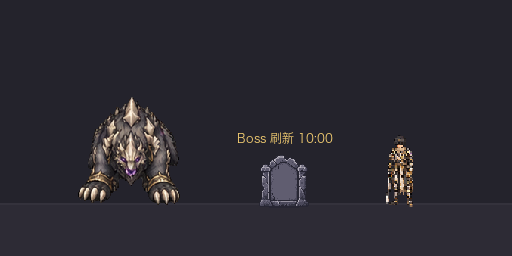
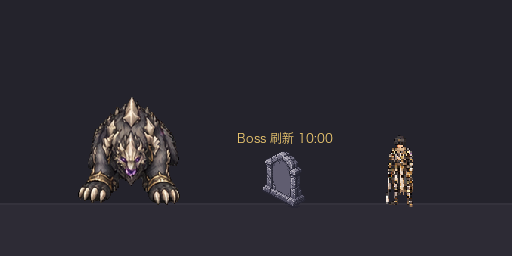
feat(assets): 接入斜向像素Boss墓碑
- 将已确认的64×64墓碑改为45度视角并保留七色透明像素风

- 替换死亡墓碑白盒绘制，实时倒计时移至碑顶上方

- 更新同屏与状态预览，Godot导入及BossReviewTest、SmokeTest通过；渲染测试通过

Changed region(s): [[0.5, 0.5938, 0.5938, 0.8125]]

diff --git a/art_source/environment/boss_tombstone/README.md b/art_source/environment/boss_tombstone/README.md
@@ -1,20 +1,18 @@
-# Boss 死亡墓碑样图说明
+# Boss 死亡墓碑素材说明
 
-本轮仅供确认造型，不接入游戏。主图为 `tombstone_64.png`；同屏、六倍和倒计时状态预览分别在 `docs/素材设计/样板/Boss墓碑样图/` 的 `preview_at_scale.png`、`preview_x6.png`、`preview_states.png`。
+`tombstone_64.png` 是源稿；相同像素的运行图位于 `assets/sprites/environment/boss_tombstone.png`，由 `scripts/entities/boss_tombstone.gd` 绘制。`docs/素材设计/样板/Boss墓碑样图/` 保存同屏、六倍和倒计时状态预览。
 
-## 造型与像素规格
+## 造型与规格
 
-- 直立的冷灰紫石碑：折角拱顶、左右短护柱、矮基座。左右破损略不对称，中心保留整块平整、无字的碑面，未来可另加名字或编号。
-- 画布 **64×64 RGBA**，实像素包围盒约 **50×53**（`x=7…56, y=10…62`）；脚底锚点建议 **(32,62)**，底部两行用不透明深色像素做接地阴影。碑体不作等距菱形压扁。
-- 颜色严格收敛为七色：`#272633`、`#343442`、`#4a485a`、`#605d70`、`#777486`、`#9692a0`、`#b6b1bb`；另有全透明像素。所有 alpha 仅为 0 或 255，没有羽化边。源图没有橙色、金色或文字。
-- 用内置 imagegen 生成造型参考，再按比例等比缩小、最近邻取样、硬阈值透明和固定调色板量化成 64×64；没有横向或纵向单独拉伸。六倍图也只用最近邻放大，不增添绘画细节。
+- 冷灰紫石碑保持直立，但绕竖轴转向：碑面、右侧厚度和斜向底座构成游戏 45 度视角。碑面留白，无固定刻字。
+- 画布为 **64×64 RGBA**，实像素范围约 `x=10…53, y=6…62`，脚底锚点 **(32,62)**，底部深色像素作为接地阴影。运行时将纹理绘制在节点局部坐标 `(-32,-62)`，使碑脚落在刷新点位置。
+- 七色像素调色板为 `#272633`、`#343442`、`#4a485a`、`#605d70`、`#777486`、`#9692a0`、`#b6b1bb`，另有透明像素。Alpha 只有 0 或 255，无矢量描边、羽化、橙色或金色。
+- 用 imagegen 根据已确认的正面样图生成斜向造型参考；再等比缩至 56×56，以最近邻取样、硬阈值透明和固定调色板量化，并放在 64×64 画布内。六倍预览仅做最近邻放大。
 
-## 比例、文字和状态
+## 游戏接入与预览
 
-`preview_at_scale.png` 以世界像素 **1:1** 合成当前游戏的 Boss、墓碑与玩家：Boss 用 `boss_corrupted_beast/idle_atlas.png` 第一帧，帧格 192×192、显示倍率 1；玩家用 `look_06_idle_atlas.png` 第一帧，资源帧格 64×80、当前 `ART_SCALE=1.5`，因此按 **96×120** 显示；墓碑按 64×64、倍率 1。三者脚底对齐。任务书中的玩家 128×80 与当前图集实际尺寸不同，预览按当前运行资源与代码倍率制作。中性暗地面仅供对比，不伪装成某张正式地图截图。
+刷新点仍负责墓碑创建、定位和销毁；墓碑只绘制共享纹理及实时倒计时。纹理采用最近邻过滤，倒计时继续由代码以 `#f2cc71` 绘制在碑顶上方，秒数变化时才重绘。没有改变 Boss 刷新时间、碰撞和存档数据。
 
-金色 `#f2cc71` 的 `Boss 刷新 MM:SS` 只在预览图中模拟代码实时文字，置于碑体上方并居中；`tombstone_64.png` 完全不含这些字。`preview_states.png` 的 10:00 与 00:10 **只改倒计时文本，石碑像素完全相同**；本轮不另加发光、变色或复活动效。
+`preview_at_scale.png` 以世界像素 **1:1** 合成当前游戏的 Boss、墓碑与玩家：Boss 取 `boss_corrupted_beast/idle_atlas.png` 第一帧，帧格 192×192、倍率 1；玩家取 `look_06_idle_atlas.png` 第一帧，帧格 64×80、当前 `ART_SCALE=1.5`，因此按 96×120 显示；墓碑按 64×64、倍率 1。三者脚底对齐。预览中的暗地面只供比例对比，并非正式地图截图。
 
-以实像素包围盒比较，Boss 第一帧约 102×108、玩家在当前倍率下约 27×72、墓碑约 50×53。墓碑明显矮于 Boss，也比玩家略矮，碑面在 1:1 图里仍可辨认，因此判断 **64×64 足够**。不制作 96×96 备选：那会让碑体高度接近当前 Boss 可见体量，并增加像素占用与遮挡，不利于地标和战斗主体分层。
-
-需要用户确认的是：这版折角拱顶加双护柱的造型、64×64 与 Boss/玩家的相对比例、以及倒计时置于碑体上方的观感。确认前不接入游戏。
+`preview_states.png` 的 10:00 与 00:10 只改变模拟倒计时文字，墓碑像素完全相同。素材在 1:1 下比 Boss 明显矮，碑面仍可辨认；**64×64 足够**，无须放大运行纹理。
